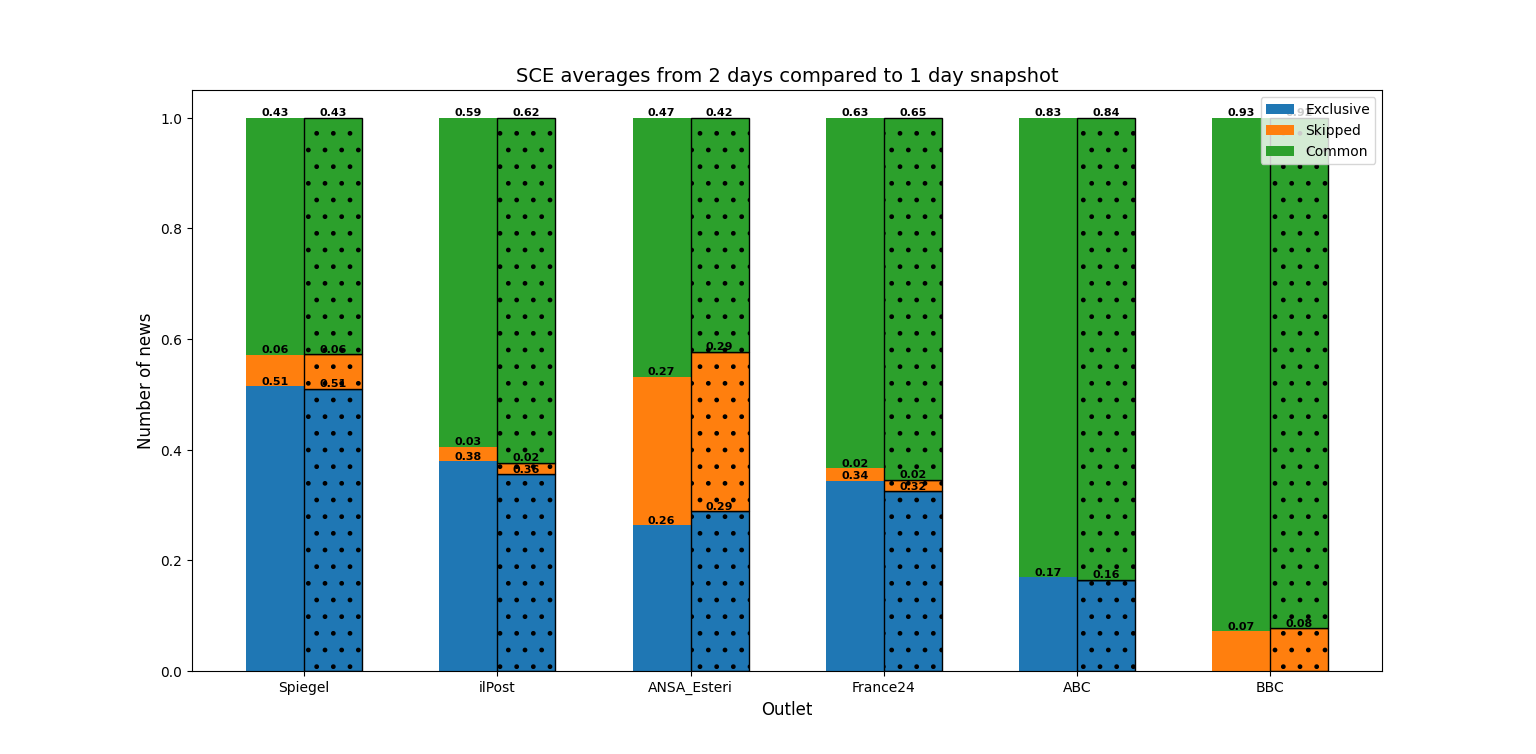
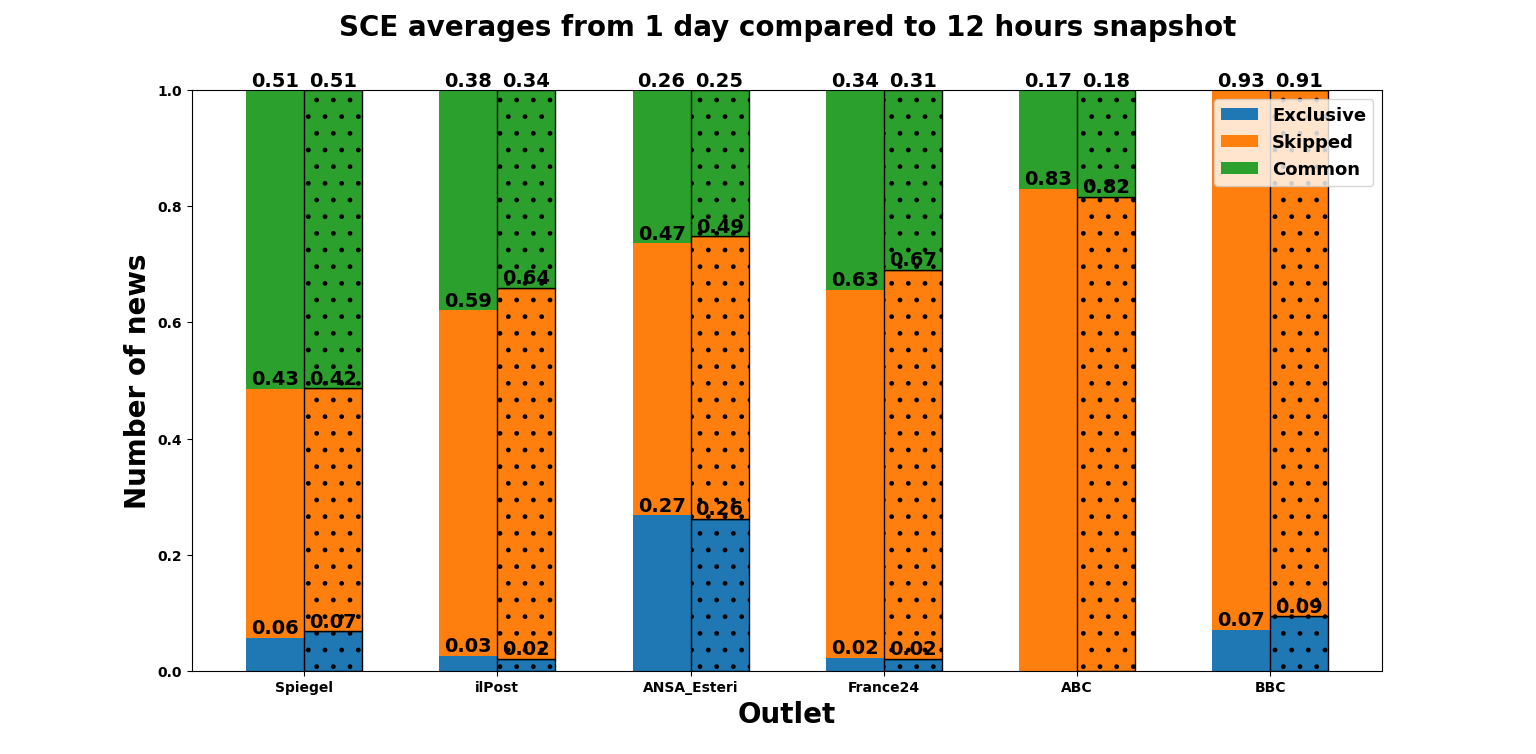
Enhanced script for SCE Special Issue visualization.

diff --git a/HT_2023/visualization/special_issue/special_issue_visualizer.py b/HT_2023/visualization/special_issue/special_issue_visualizer.py
@@ -5,6 +5,7 @@ import matplotlib.pyplot as plt
 FONTSIZE = 20
 plt.rc('font', weight='bold')
 
+NEW_LINE = '\n'
 SEP = "\\"
 # SEP = "/"
 
@@ -27,26 +28,32 @@ def single_language(outlet: str, ratio: bool = False):
     for i, day in zip(range(TOT_DAYS), DAYS):
         rect = ax.bar(i - w, excl[i], width=w, align='center', color=colors[0])
         autolabel(rect, ax)
+        if i== 0:
+            bars.append(rect)
         rect = ax.bar(i, skip[i], width=w, align='center', color=colors[1])
         autolabel(rect, ax)
+        if i == 0:
+            bars.append(rect)
         rect = ax.bar(i + w, com[i], width=w, align='center', color=colors[2])
         autolabel(rect, ax)
-    rect = ax.bar(TOT_DAYS - w, excl[TOT_DAYS], width=w, align='center', color=colors[0])
+        if i == 0:
+            bars.append(rect)
+    rect = ax.bar(TOT_DAYS - w, excl[TOT_DAYS], width=w, align='center', color=colors[0], edgecolor='black', hatch='.')
     autolabel(rect, ax)
-    bars.append(rect)
-    rect = ax.bar(TOT_DAYS, skip[TOT_DAYS], width=w, align='center', color=colors[1])
+    rect = ax.bar(TOT_DAYS, skip[TOT_DAYS], width=w, align='center', color=colors[1], edgecolor='black', hatch='.')
     autolabel(rect, ax)
-    bars.append(rect)
-    rect = ax.bar(TOT_DAYS + w, com[TOT_DAYS], width=w, align='center', color=colors[2])
+    rect = ax.bar(TOT_DAYS + w, com[TOT_DAYS], width=w, align='center', color=colors[2], edgecolor='black', hatch='.')
     autolabel(rect, ax)
-    bars.append(rect)
-    ax.legend(bars, ["Exclusive", "Skipped", "Common"], fontsize = FONTSIZE-7)
-    x_ticks = [f"{day}-{day+12}" for day in DAYS] + ["Total"]
-    plt.xticks(range(TOT_DAYS + 1), x_ticks)
+    ax.legend(bars, ["Exclusive", "Skipped", "Common"], fontsize=FONTSIZE - 7)
+    x_ticks = [f"{day}-0{MONTH}{NEW_LINE}" for day in DAYS] + [
+        f"{DAYS[0]}-0{MONTH} to {DAYS[-1]}-0{MONTH}"
+        f"{NEW_LINE}({TOT_DAYS} days snapshot)"]
+    plt.xticks(range(TOT_DAYS + 1), x_ticks, fontsize=FONTSIZE - 7)
+    plt.yticks(fontsize=FONTSIZE - 7)
     ratio_str = " divided by total" if ratio else ""
-    plt.title(f"SCE from {outlet}{ratio_str} in {TOT_DAYS} days", fontsize=FONTSIZE, weight = "bold")
-    plt.xlabel("Timespan", fontsize=FONTSIZE, weight = "bold")
-    plt.ylabel("Number of news", fontsize=FONTSIZE, weight = "bold")
+    plt.title(f"SCE from {outlet}{ratio_str} in {TOT_DAYS} day{'s' if TOT_DAYS > 1 else ''}", fontsize=FONTSIZE, weight="bold")
+    plt.xlabel("Timespan", fontsize=FONTSIZE, weight="bold")
+    plt.ylabel("Number of news", fontsize=FONTSIZE, weight="bold")
     plt.show()
 
 
@@ -54,13 +61,13 @@ def get_values(outlet, ratio):
     excl = []
     skip = []
     com = []
-    for i in DAYS:
-        with open(f"{JSON_DIR}_{i}_{MONTH}.json", "r", encoding="utf-8") as f:
+    for day in DAYS:
+        with open(f"{JSON_DIR}_{day}_{MONTH}.json", "r", encoding="utf-8") as f:
             data = json.load(f)
             excl.append(data[outlet]["exclusive"])
             skip.append(data[outlet]["skipped"])
             com.append(data[outlet]["common"])
-    with open(f"{JSON_DIR}_{TOT_DAYS}days.json", "r", encoding="utf-8") as f:
+    with open(f"{JSON_DIR}_5days.json", "r", encoding="utf-8") as f:
         data = json.load(f)
         excl.append(data[outlet]["exclusive"])
         skip.append(data[outlet]["skipped"])
@@ -107,12 +114,14 @@ def columned_bars(ratio: bool = False):
                            bottom=tot_vals[i][0] + tot_vals[i][1], edgecolor='black', hatch='.')
         autolabel(rect3_tot, ax, true_h=rect3_tot[0].get_height() + tot_vals[i][0] + tot_vals[i][1])
         if i == len(OUTLETS) - 1:
-            ax.legend([rect1, rect2, rect3], ["Exclusive", "Skipped", "Common"], fontsize=FONTSIZE-7)
+            ax.legend([rect1, rect2, rect3], ["Exclusive", "Skipped", "Common"], fontsize=FONTSIZE - 7)
     x_ticks = [outlet.split(f"{SEP}")[1] for outlet in OUTLETS]
-    plt.xticks(range(len(OUTLETS)), x_ticks)
-    plt.title(f"SCE averages from {TOT_DAYS} days compared to {TOT_DAYS} days snapshot", fontsize=FONTSIZE, weight = "bold")
-    plt.xlabel("Outlet", fontsize=FONTSIZE, weight = "bold")
-    plt.ylabel("Number of news", fontsize=FONTSIZE, weight = "bold")
+    plt.xticks(range(len(OUTLETS)), x_ticks, fontsize=FONTSIZE - 2)
+    plt.yticks(fontsize=FONTSIZE - 2)
+    plt.title(f"SCE averages from {TOT_DAYS} days compared to {TOT_DAYS} days snapshot", fontsize=FONTSIZE,
+              weight="bold")
+    plt.xlabel("Outlet", fontsize=FONTSIZE, weight="bold")
+    plt.ylabel("Number of news", fontsize=FONTSIZE, weight="bold")
     plt.show()
 
 
@@ -124,13 +133,13 @@ def autolabel(rects, ax, true_h=-1):
         if rect.get_height() <= 0:
             return
         ax.text(rect.get_x() + rect.get_width() / 2., h, f"{rect.get_height():.2f}",
-                ha='center', va='bottom', fontsize=FONTSIZE-6, weight="bold")
+                ha='center', va='bottom', fontsize=FONTSIZE - 6, weight="bold")
 
 
 def main():
-    # for outlet in OUTLETS:
-    #     single_language(outlet, True)
-    columned_bars(True)
+    for outlet in OUTLETS:
+        single_language(outlet, True)
+    # columned_bars(True)
 
 
 if __name__ == "__main__":
